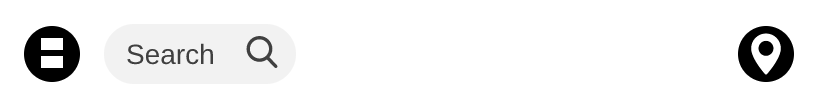
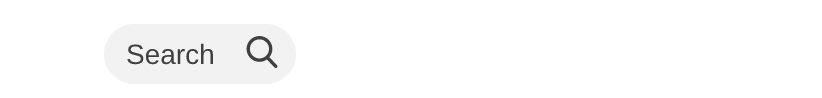
tidy explore filter bar and logic structure

Changed region(s): [[0.882, 0.2449, 0.9732, 0.8571], [0.0304, 0.2449, 0.1217, 0.8571]]

diff --git a/src/routes/discover/_components/Explore.svelte b/src/routes/discover/_components/Explore.svelte
@@ -1,8 +1,5 @@
 <script>
-	import { createEventDispatcher } from 'svelte';
-	const dispatch = createEventDispatcher();
-
-	export let locationMode = 'global';
+	import { locationMode, exploreZoomed } from '../../../models/appState.js';
 
 	import Proxy from '../../../components/Proxy.svelte';
 	import Hotspots from '../../../components/Hotspots.svelte';
@@ -10,15 +7,20 @@
 
 	import ScrollView from '../../../components/ScrollView.svelte';
 
-	$: proxyContentImage = (locationMode === 'global') ? 'explore_content' : 'explore_content_local';
-	$: proxyFilterImage = (locationMode === 'global') ? 'explore_filter.png' : 'explore_filter_local.png';
+	$: proxyContentImage = ($locationMode === 'global') ? 'explore_content' : 'explore_content_local';
+
+	import ExploreFilterBar from './ExploreFilterBar.svelte';
+
+	function exploreZoomIn() {
+		$exploreZoomed = true;
+	}
 </script>
 
 <div class="content">
 	<div class="contentArea">
 		<Hotspots>
 			<!-- Zoom In -->
-			<Hotspot onClick="{e => dispatch('exploreZoomIn')}" style="
+			<Hotspot onClick="{exploreZoomIn}" style="
 				top: 50%;
 				left: 50%;
 				transform: translate(-50%, -50%);
@@ -30,25 +32,7 @@
 		<Proxy image="{proxyContentImage}" />
 	</div>
 
-	<div class="filterBar">
-		<Hotspots>
-			<!-- Toggle View Mode -->
-			<Hotspot onClick="{e => dispatch('setViewMode', {viewMode: 'discover'})}" style="
-				left: 7px;
-				top: 5px;
-				width: 44px;
-				height: 46px;" />
-
-			<!-- Toggle Location Mode -->
-			<Hotspot onClick="{e => dispatch('toggleLocationMode')}" style="
-				right: 10px;
-				top: 5px;
-				width: 232px;
-				height: 46px;" />
-		</Hotspots>
-
-		<Proxy image="{proxyFilterImage}" />
-	</div>
+	<ExploreFilterBar />
 </div>
 
 <style>
@@ -62,10 +46,6 @@
 
 	.content :global(.hotspotContainer) {
 		height: 100%;
-	}
-
-	.filterBar {
-		position: absolute;
 	}
 
 	.contentArea {

diff --git a/src/routes/discover/_components/Discover.svelte b/src/routes/discover/_components/Discover.svelte
@@ -1,12 +1,4 @@
 <script>
-	import { createEventDispatcher } from 'svelte';
-	const dispatch = createEventDispatcher();
-
-	export let locationMode = 'global';
-
-	$: proxyContentOffset = (locationMode === 'global') ? 0 : 3;
-	$: proxyFilterImage = (locationMode === 'global') ? 'discover_search' : 'discover_search_local';
-
 	import ScrollView from '../../../components/ScrollView.svelte';
 
 	import Proxy from '../../../components/Proxy.svelte';
@@ -14,20 +6,33 @@
     import Hotspot from '../../../components/Hotspot.svelte';
 
 	import Feed from './../../_components/Feed.svelte';
+
+	import { viewMode, locationMode } from '../../../models/appState.js';
+
+	function toggleViewMode() {
+		$viewMode = ($viewMode === 'explore') ? 'discover' : 'explore';
+	}
+
+	function toggleLocationMode() {
+		$locationMode = ($locationMode === 'global') ? 'local' : 'global';
+	}
+
+	$: proxyContentOffset = ($locationMode === 'global') ? 0 : 3;
+	$: proxyFilterImage = ($locationMode === 'global') ? 'discover_search' : 'discover_search_local';
 </script>
 
 <ScrollView id="discover">
 	<div>
 		<Hotspots>
 			<!-- Toggle View Mode -->
-			<Hotspot onClick="{() => {dispatch('setViewMode', {viewMode: 'explore'})}}" style="
+			<Hotspot onClick="{toggleViewMode}" style="
 				left: 7px;
 				top: 5px;
 				width: 38px;
 				height: 39px;" />
 
 			<!-- Toggle Location Mode -->
-			<Hotspot onClick="{() => {dispatch('toggleLocationMode')}}" style="
+			<Hotspot onClick="{toggleLocationMode}}" style="
 				right: 10px;
 				top: 5px;
 				width: 232px;

diff --git a/src/routes/discover/index.svelte b/src/routes/discover/index.svelte
@@ -1,24 +1,9 @@
 <script>
-	import { viewMode, locationMode, exploreZoomed } from '../../models/appState.js';
+	import { viewMode, exploreZoomed } from '../../models/appState.js';
 
 	import Discover from './_components/Discover.svelte';
 	import Explore from './_components/Explore.svelte';
 	import ExploreZoomed from './_components/ExploreZoomed.svelte';
-
-	function setViewMode(event) {
-		$viewMode = event.detail.viewMode;
-	}
-
-	function toggleLocationMode() {
-		$locationMode = ($locationMode === 'global') ? 'local' : 'global';
-	}
-
-	function exploreZoomIn() {
-		$exploreZoomed = true;
-	}
-	function exploreZoomOut() {
-		$exploreZoomed = false;
-	}
 </script>
 
 <svelte:head>
@@ -26,11 +11,11 @@
 </svelte:head>
 
 {#if $viewMode === 'discover'}
-	<Discover locationMode={$locationMode} on:setViewMode="{setViewMode}" on:toggleLocationMode="{toggleLocationMode}" />
+	<Discover />
 {:else}
 	{#if $exploreZoomed}
-		<ExploreZoomed locationMode={$locationMode} on:setViewMode="{setViewMode}" on:toggleLocationMode="{toggleLocationMode}" on:exploreZoomOut="{exploreZoomOut}" />
+		<ExploreZoomed />
 	{:else}
-		<Explore locationMode={$locationMode} on:setViewMode="{setViewMode}" on:toggleLocationMode="{toggleLocationMode}" on:exploreZoomIn="{exploreZoomIn}" />
+		<Explore />
 	{/if}
 {/if}

diff --git a/src/routes/discover/_components/ExploreZoomed.svelte b/src/routes/discover/_components/ExploreZoomed.svelte
@@ -1,8 +1,5 @@
 <script>
-	import { createEventDispatcher } from 'svelte';
-	const dispatch = createEventDispatcher();
-
-	export let locationMode = 'global';
+	import { exploreZoomed } from '../../../models/appState.js';
 
 	import { loadProject } from '../../../actions/appActions.js';
 
@@ -13,13 +10,17 @@
 	import ScrollView from '../../../components/ScrollView.svelte';
 
 	import ExploreFilterBar from './ExploreFilterBar.svelte';
+
+	function exploreZoomOut() {
+		$exploreZoomed = false;
+	}
 </script>
 
 <div class="content">
 	<div class="contentArea">
 		<Hotspots>
 			<!-- Zoom Out -->
-			<Hotspot onClick="{e => dispatch('exploreZoomOut')}" style="
+			<Hotspot onClick="{exploreZoomOut}" style="
 				top: 0;
 				left: 0;
 				width: 100%;
@@ -38,7 +39,7 @@
 		<Proxy image="explore_zoomed" className="exploreZoomed" />
 	</div>
 
-	<ExploreFilterBar {locationMode} />
+	<ExploreFilterBar />
 </div>
 
 <style>

diff --git a/src/routes/discover/_components/ExploreFilterBar.svelte b/src/routes/discover/_components/ExploreFilterBar.svelte
@@ -1,19 +1,16 @@
 <script>
-	import { createEventDispatcher } from 'svelte';
-	const dispatch = createEventDispatcher();
-
 	import Proxy from '../../../components/Proxy.svelte';
 	import Hotspots from '../../../components/Hotspots.svelte';
 	import Hotspot from '../../../components/Hotspot.svelte';
 
 	import { viewMode, locationMode } from '../../../models/appState.js';
 
-	function toggleLocationMode() {
-		$locationMode = ($locationMode === 'global') ? 'local' : 'global';
-	}
-
 	function toggleViewMode() {
 		$viewMode = ($viewMode === 'explore') ? 'discover' : 'explore';
+	}
+
+	function toggleLocationMode() {
+		$locationMode = ($locationMode === 'global') ? 'local' : 'global';
 	}
 
 	$: proxyFilterImage = ($locationMode === 'global') ? 'explore_filter.png' : 'explore_filter_local.png';

diff --git a/src/components/Hotspot.svelte b/src/components/Hotspot.svelte
@@ -5,11 +5,11 @@
 	export let onClick = null;
 	export let style = null;
 
-	$: {
-		if (DEBUG && onClick && typeof onClick !== 'function') {
-			console.error('onClick property not a function: "' + onClick + '"');
-		}
-	}
+	// $: { // can be a string and will still work?
+	// 	if (DEBUG && onClick && typeof onClick !== 'function') {
+	// 		console.error('onClick property not a function: "' + onClick + '" type: ' + typeof onClick);
+	// 	}
+	// }
 </script>
 
 {#if href}
